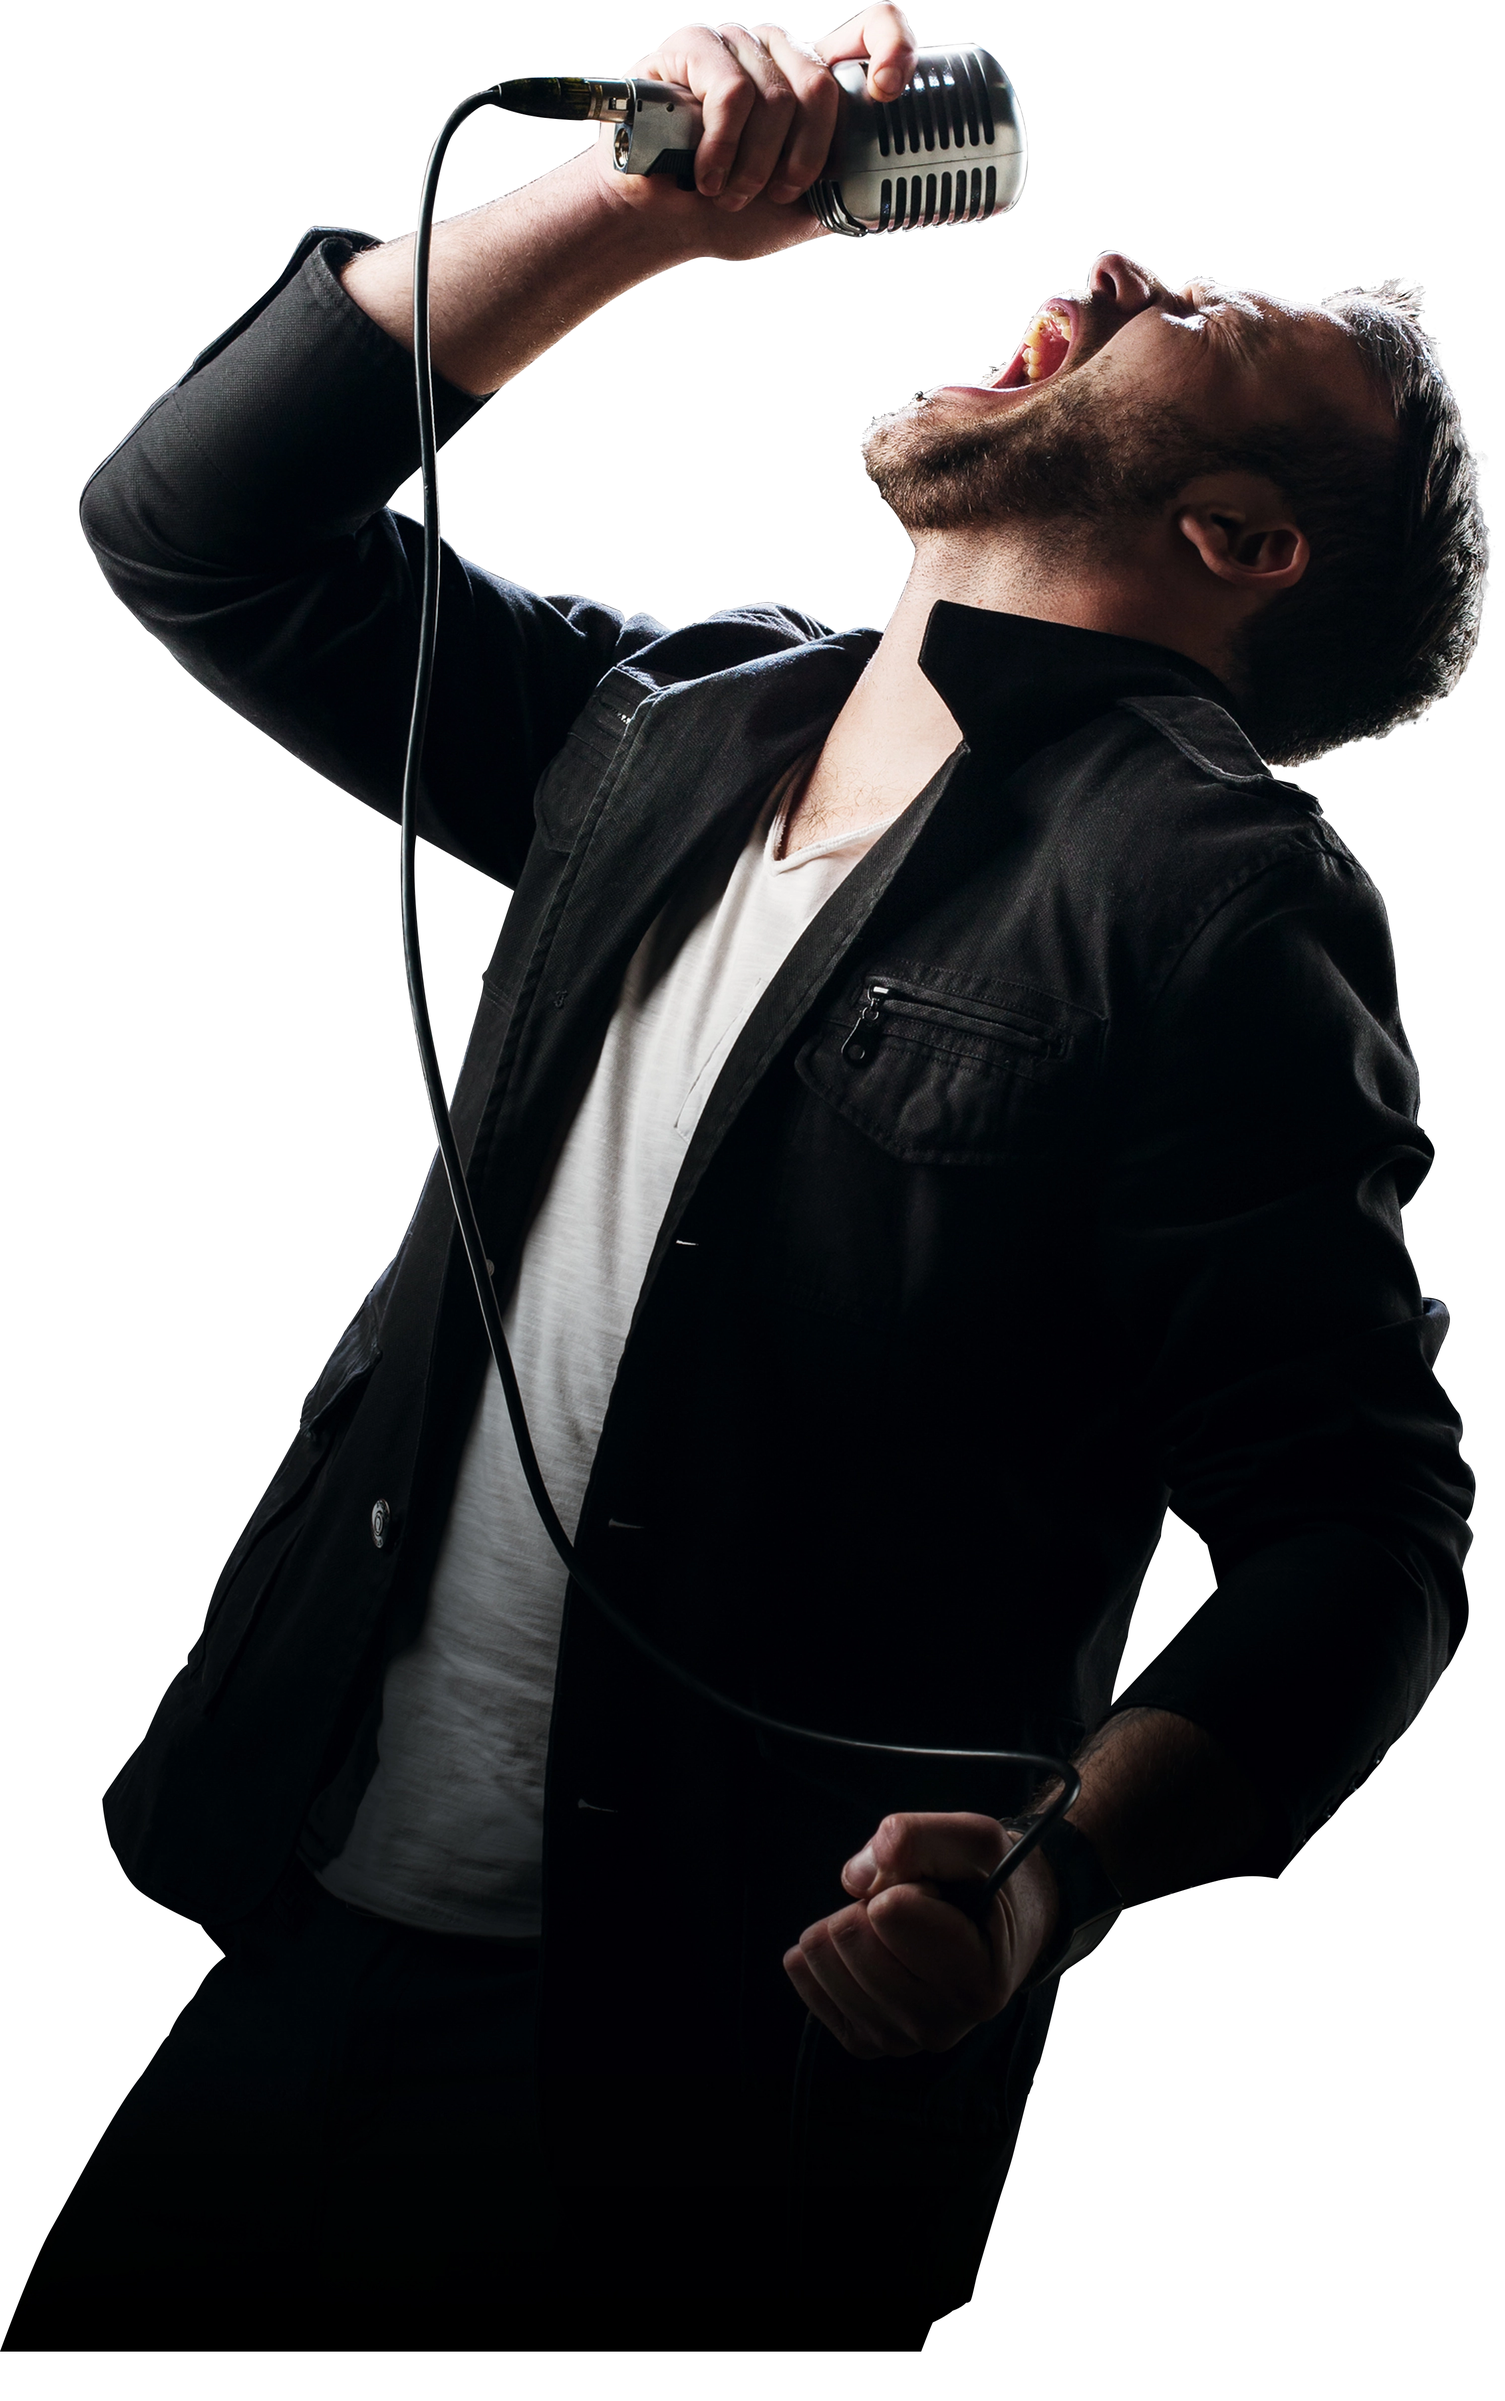
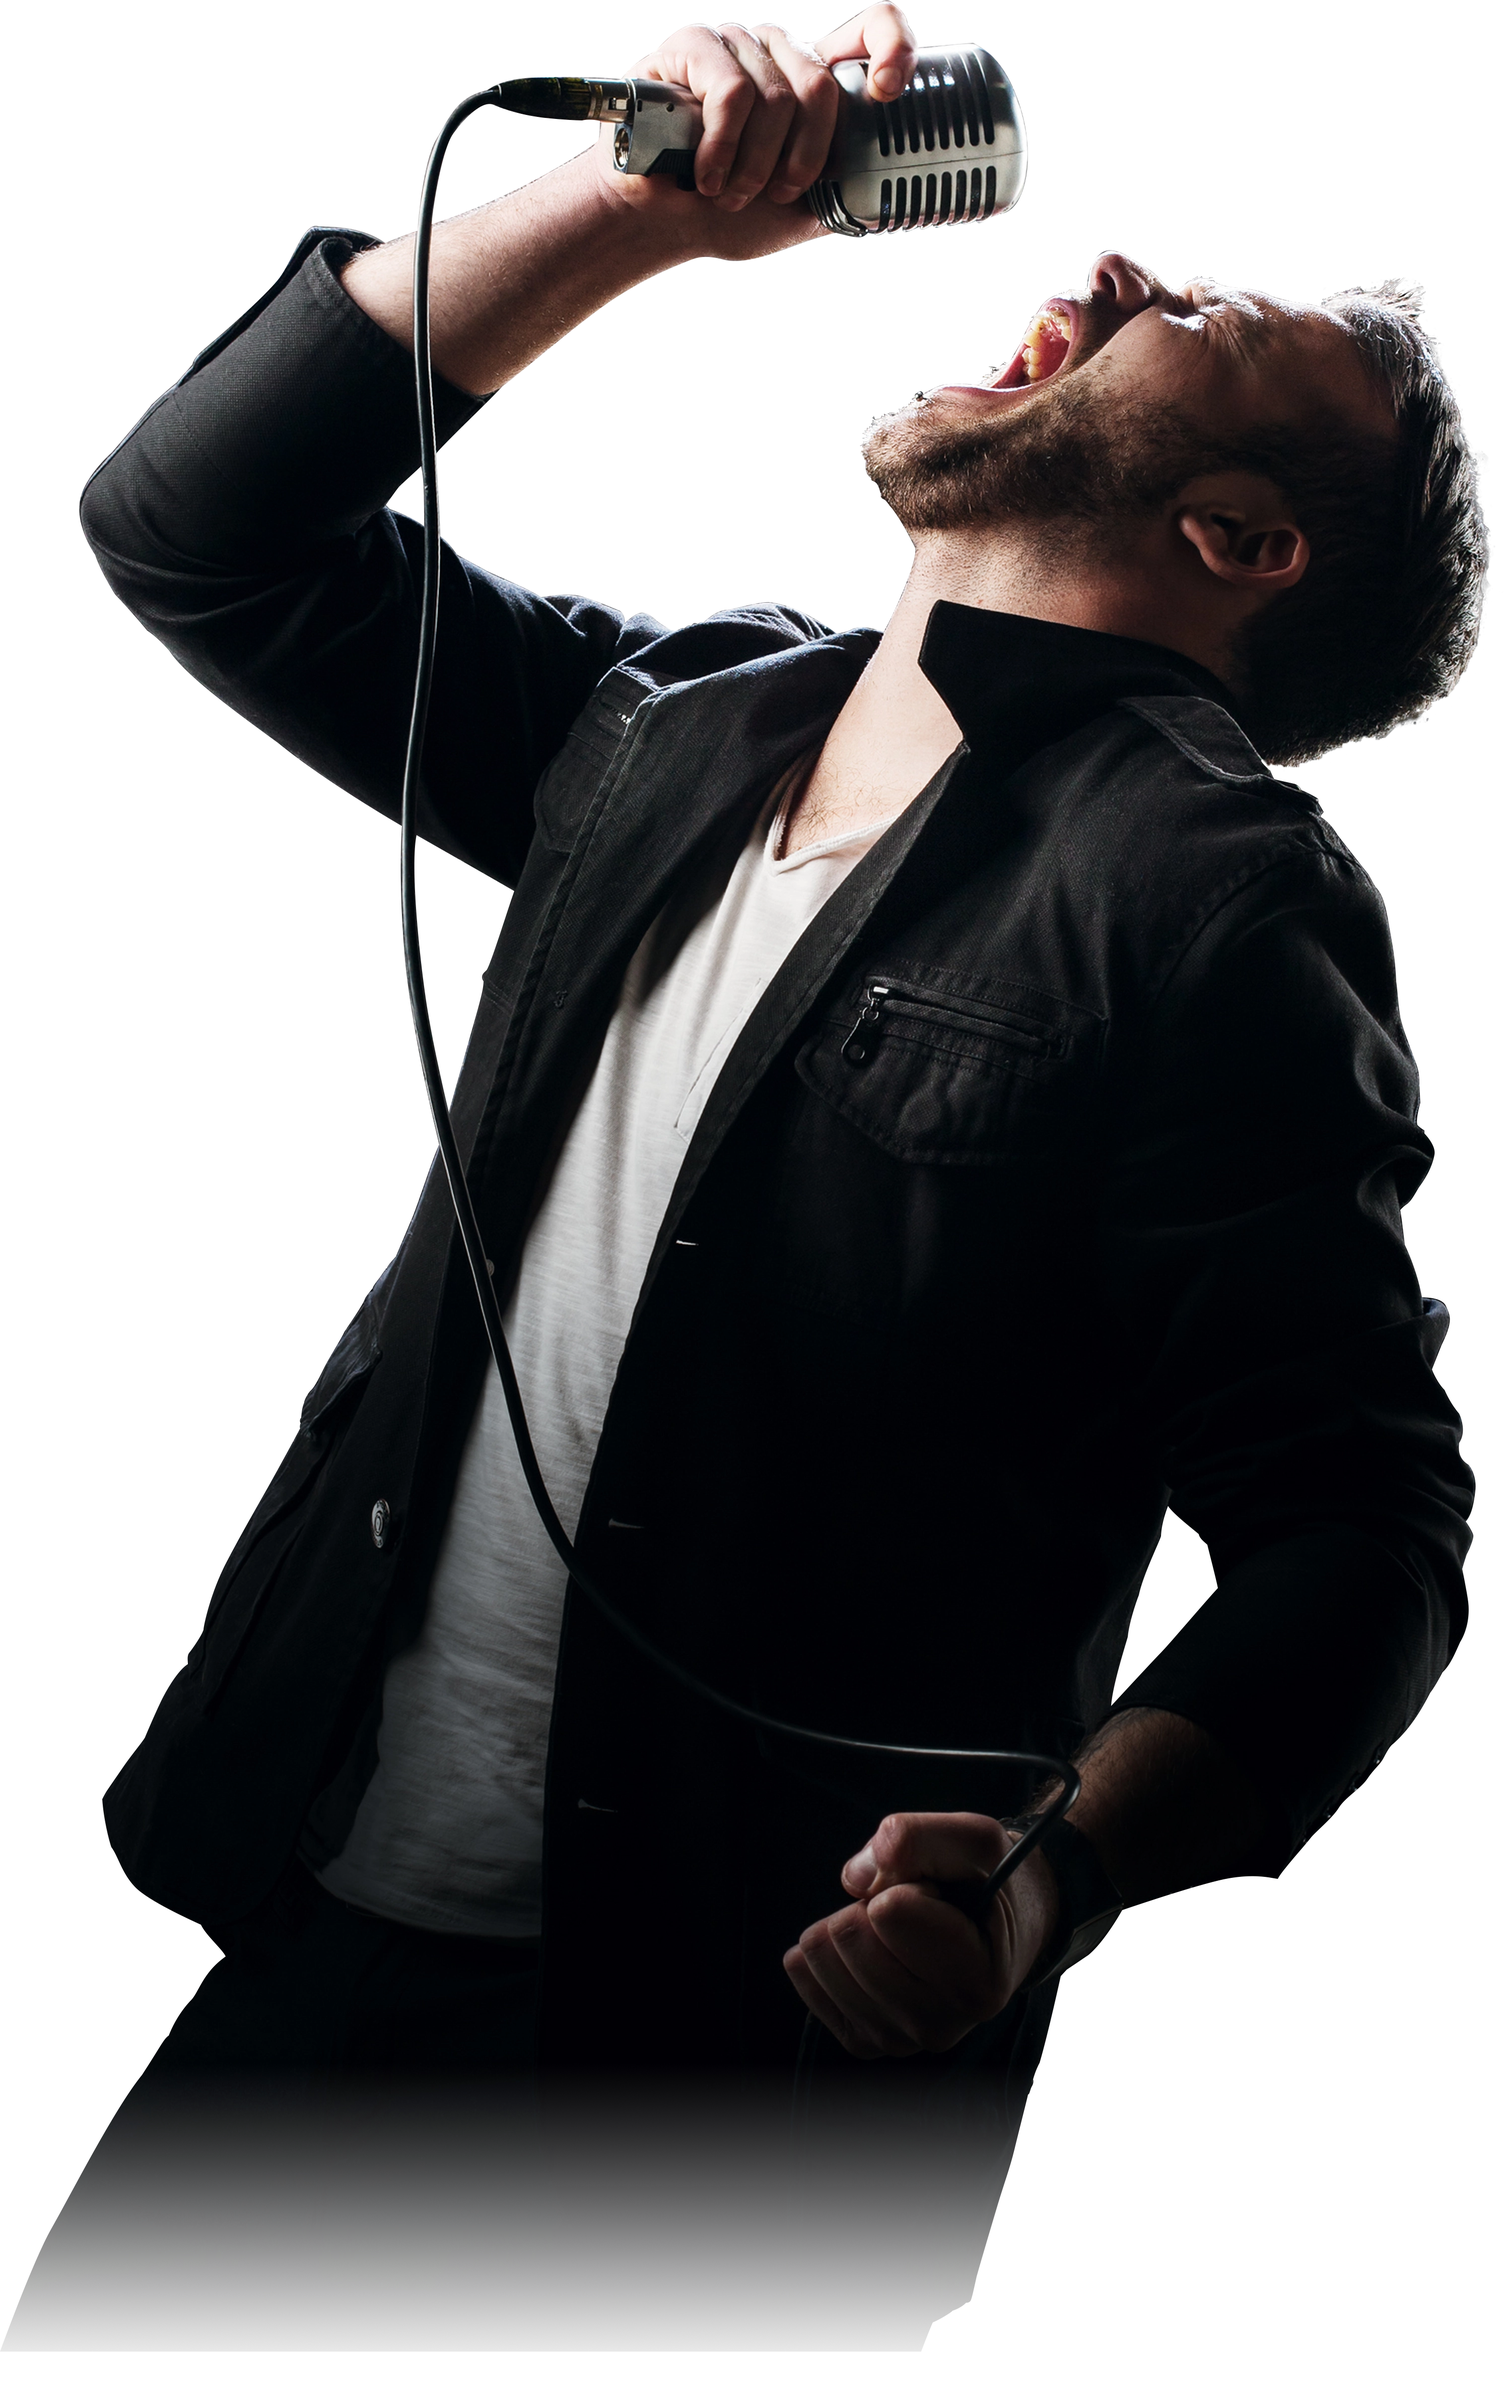
fasfs

Changed region(s): [[0.0, 0.8699, 0.6847, 0.9941]]

diff --git a/index.html b/index.html
@@ -17,27 +17,20 @@
             @import url('https://fonts.googleapis.com/css2?family=Bebas+Neue&family=DM+Sans:ital,wght@0,400;0,500;0,700;1,400;1,500;1,700&family=Pragati+Narrow:wght@400;700&display=swap');
             @import url('https://fonts.googleapis.com/css2?family=Architects+Daughter&display=swap');
         </style>
-        <script src="https://unpkg.com/splitting@1.0.6/dist/splitting.min.js"></script>
+        <!-- <script src="https://unpkg.com/splitting@1.0.6/dist/splitting.min.js"></script> -->
 
-        <script src="https://code.jquery.com/jquery-3.5.0.js"></script>
+        <!-- <script src="https://code.jquery.com/jquery-3.5.0.js"></script> -->
     </head> 
 
     <body>
-        <!-- <main class="main">
-            <h2 class="main-h2 main-h2--front" data-splitting>
-                Nuef // Nuef // Nuef // Nuef
-            </h2>
-            <h2 class="main-h2 main-h2--back" data-splitting>
-                Nuef // Nuef // Nuef // Nuef
-            </h2>
-        </main> -->
-
-
-
-
         <div class="preloader">
             <div class="preloader__center">
                 <img src="assets/media/colorfulDisc.png" alt="" class="preloader__image">
+                <!-- <picture class="preloader__image">
+                    <source srcset="assets/media/colorfulDisc.webp" type="image/webp">
+                    <source srcset="assets/media/colorfulDisc.png" type="image/png">
+                    <img src="assets/media/colorfulDisc.png">
+                </picture> -->
                 <span class="preloader__text">NUEF</span>
             </div>
         </div>
@@ -118,31 +111,44 @@
                 <div class="line header__two-lines">MAKING</div>
                 <div class="line header__two-lines">BRANDS</div>
                 <div class="header__famous-line line z">FAMOUS</div>
-                <img src="assets/media/singer.png" class="singer">
+                <!-- <img src="assets/media/singer.png" class="singer"> -->
+                <picture class="singer">
+                    <source srcset="assets/media/singer.webp" type="image/webp">
+                    <source srcset="assets/media/singer.png" type="image/png">
+                    <img src="assets/media/singer.png">
+                </picture>
+                
                 <div class="circle"></div>
             </div>
-            <div class="spotlights-white">
-                <img src="assets/media/spotlightSmallW.png" class="w spotlight-white spotlight-white-left">
-                <img src="assets/media/spotlightSmallW.png" class="w spotlight-white spotlight-white-center-left">
-                <img src="assets/media/spotlightSmallW.png" class="w spotlight-white spotlight-white-center-right">
-                <img src="assets/media/spotlightSmallW.png" class="w spotlight-white spotlight-white-right">
-            </div>
-
-            <div class="spotlights-pink">
-                <img src="assets/media/spotlightSmallP.png" class="p spotlight-pink">
-                <img src="assets/media/spotlightSmallP.png" class="p spotlight-pink">
-                <img src="assets/media/spotlightSmallP.png" class="p spotlight-pink">
-                <img src="assets/media/spotlightSmallP.png" class="p spotlight-pink">
-            </div>
-
-            <div class="spotlights-white-center">
-                <img src="assets/media/spotlightSmallW.png" class="l spotlight-white-center-bottom spotlight-white-center-bottom-left">
-                <img src="assets/media/spotlightSmallW.png" class="r spotlight-white-center-bottom spotlight-white-center-bottom-right">
+            <div class="spotlights__container">
+                <div class="spotlights-white">
+                    <img src="assets/media/spotlightSmallW.png" class="w spotlight-white spotlight-white-left">
+                    <img src="assets/media/spotlightSmallW.png" class="w spotlight-white spotlight-white-center-left">
+                    <img src="assets/media/spotlightSmallW.png" class="w spotlight-white spotlight-white-center-right">
+                    <img src="assets/media/spotlightSmallW.png" class="w spotlight-white spotlight-white-right">
+                </div>
+    
+                <div class="spotlights-pink">
+                    <img src="assets/media/spotlightSmallP.png" class="p spotlight-pink">
+                    <img src="assets/media/spotlightSmallP.png" class="p spotlight-pink">
+                    <img src="assets/media/spotlightSmallP.png" class="p spotlight-pink">
+                    <img src="assets/media/spotlightSmallP.png" class="p spotlight-pink">
+                </div>
+    
+                <div class="spotlights-white-center">
+                    <img src="assets/media/spotlightSmallW.png" class="l spotlight-white-center-bottom spotlight-white-center-bottom-left">
+                    <img src="assets/media/spotlightSmallW.png" class="r spotlight-white-center-bottom spotlight-white-center-bottom-right">
+                </div>
             </div>
 
             <img src="assets/media/spotlightTopCenter.png" class="spotlight c spotlight-center">
 
-            <img src="assets/media/crowd.png" class="crowd">
+            <!-- <img src="assets/media/crowd.png" class="crowd"> -->
+            <picture class="crowd">
+                <source srcset="assets/media/crowd.webp" type="image/webp">
+                <source srcset="assets/media/crowd.png" type="image/png">
+                <img src="assets/media/crowd.png">
+            </picture>
             <div class="smoke"></div>
         </div>
 
@@ -194,10 +200,20 @@
             </div>
             <div class="musicCircle left">
                 <img class="musicCircle-big" src="assets/media/musicCircle.png">
+                <!-- <picture class="musicCircle-big">
+                    <source srcset="assets/media/musicCircle.webp" type="image/webp">
+                    <source srcset="assets/media/musicCircle.png" type="image/png">
+                    <img src="assets/media/musicCircle.png">
+                </picture> -->
                 <div class="bg"></div>
             </div>
             
             <img src="assets/media/musicCircleBottomRight.png" class="musicCircle-small musicCircle right">
+            <!-- <picture class="musicCircle-small musicCircle right">
+                <source srcset="assets/media/musicCircleBottomRight.webp" type="image/webp">
+                <source srcset="assets/media/musicCircleBottomRight.png" type="image/png">
+                <img src="assets/media/musicCircleBottomRight.png">
+            </picture> -->
             <img src="assets/media/spotlightTopRight.png" class="spotlight">
         </div>
 
@@ -214,13 +230,28 @@
                 <div class="col r section__three__col__r disc-block-three">
                     <div class="circleBlock">
                         <img class="circleBlock__image" src="assets/media/musicRecord.png">
+                        <!-- <picture class="circleBlock__image">
+                            <source srcset="assets/media/musicRecord.webp" type="image/webp">
+                            <source srcset="assets/media/musicRecord.png" type="image/png">
+                            <img src="assets/media/musicRecord.png">
+                        </picture> -->
                         <div class="connect-animation-button center">CONNECT</div>
                     </div>
                 </div>
                 <img src="assets/media/spotlightTopLeft.png" class="spotlight spotlight-block-three">
             </div>
-            <img src="assets/media/leftArm.png" alt="" class="arm left-arm">
-            <img src="assets/media/rightArm.png" alt="" class="arm right-arm">
+            <!-- <img src="assets/media/leftArm.png" alt="" class="arm left-arm"> -->
+            <picture class="arm left-arm">
+                <source srcset="assets/media/leftArm.webp" type="image/webp">
+                <source srcset="assets/media/leftArm.png" type="image/png">
+                <img src="assets/media/leftArm.png">
+            </picture>
+            <!-- <img src="assets/media/rightArm.png" alt="" class="arm right-arm"> -->
+            <picture class="arm right-arm">
+                <source srcset="assets/media/rightArm.webp" type="image/webp">
+                <source srcset="assets/media/rightArm.png" type="image/png">
+                <img src="assets/media/rightArm.png">
+            </picture>
         </div>
 
         <div class="block four">
@@ -236,7 +267,12 @@
                         <div class="phone-line line"><span class="phone-line-line"></span>CHECK MAIL</div>
                     </div>
                     
-                    <img class="phone_image" src="assets/media/phone.png">               
+                    <!-- <img class="phone_image" src="assets/media/phone.png"> -->
+                    <picture class="phone_image">
+                        <source srcset="assets/media/phone.webp" type="image/webp">
+                        <source srcset="assets/media/phone.png" type="image/png">
+                        <img src="assets/media/phone.png">
+                    </picture>
                 </div>
                 <div class="col r">
                     <div class="title">FORGET ABOUT ROUTINE.<br>LEAVE IT TO <span>NUEF</span></div>
@@ -376,6 +412,11 @@
                             <span class="">Nuef</span>
                         </div>
                         <img src="assets/media/discWithText.png" alt="" class="block-contacts__image-disc">
+                        <!-- <picture class="block-contacts__image-disc">
+                            <source srcset="assets/media/discWithText.webp" type="image/webp">
+                            <source srcset="assets/media/discWithText.png" type="image/png">
+                            <img src="assets/media/discWithText.png">
+                        </picture> -->
                     </div>
                     <div class="block-contacts__text">
                         <h1 class="block-contacts__heading">Contact Us</h1>

diff --git a/css/style.css b/css/style.css
@@ -139,7 +139,9 @@ input {
   background: transparent;
 }
 
-img {
+img,
+picture,
+source {
   pointer-events: none;
   -moz-user-select: none;
   -webkit-user-drag: none;
@@ -147,6 +149,11 @@ img {
   -ms-user-select: none;
   /* user-drag: none; */
   user-select: none;
+}
+
+picture img {
+  width: 100%;
+  height: 100%;
 }
 
 body {
@@ -267,13 +274,27 @@ body {
   margin-right: 3rem !important;
 }
 
+.spotlights__container {
+  position: absolute;
+  top: 0;
+  left: 0;
+  height: 100vh;
+  width: 100%;
+
+  opacity: 0;
+}
+
 .block.one .spotlights-white-center {
   position: absolute;
+  left: 50%;
+  transform: translateX(-50%);
   z-index: 10000;
   width: 60rem;
   display: flex;
   align-items: center;
   justify-content: space-between;
+
+  /* opacity: 0; */
 }
 
 .block.one .spotlights-white-center .l {
@@ -282,11 +303,6 @@ body {
 
 .block.one .spotlights-white-center .r {
   transform: rotate(140deg);
-}
-
-.spotlight-white-center-bottom {
-  /* ANIMATION GSAP */
-  opacity: 0;
 }
 
 .spotlights-white {
@@ -300,6 +316,8 @@ body {
   align-items: flex-start;
   justify-content: space-between;
   z-index: 10000;
+
+  /* opacity: 0; */
 }
 
 .spotlight-white {
@@ -307,7 +325,7 @@ body {
   width: 26rem !important;
   height: 120vh !important;
 
-  opacity: 0;
+  /* opacity: 0; */
   /* visibility: hidden; */
 }
 
@@ -344,13 +362,15 @@ body {
   top: 0;
   left: 50%;
   transform: translateX(-50%);
+
+  /* opacity: 0; */
 }
 
 .spotlight-pink {
   /* ANIMATION GSAP */
   /* width: 22.5%; */
+  /* opacity: 0; */
   height: 100vh;
-  opacity: 0;
   width: 20%;
 }
 

diff --git a/js/script.js b/js/script.js
@@ -251,9 +251,10 @@ class AppAnimations {
     .to('.header__two-lines', {duration: 2.5, y: 0, scale: 1}, 0)
     .to('.smoke', {duration: 2.5, opacity: 1}, 0)
     .to('.spotlight-center', {duration: 3.25, opacity: .35}, 0)
-    .to('.spotlight-pink', {duration: 3.25, opacity: 1}, 0)
-    .to('.spotlight-white', {duration: 2.5, opacity: 1}, 0)
-    .to('.spotlight-white-center-bottom', {duration: 2.5, opacity: 1}, 0)
+    .to('.spotlights__container', {duration: 2.5, opacity: 1}, 0)
+    // .to('.spotlights-pink', {duration: 3.25, opacity: 1}, 0)
+    // .to('.spotlights-white', {duration: 2.5, opacity: 1}, 0)
+    // .to('.spotlights-white-center', {duration: 2.5, opacity: 1}, 0)
     .to('.spotlight-white-left', {duration: 2.5, y: 0, x: '-82%', rotate: rotateSides }, 0)
     .to('.spotlight-white-center-left', {duration: 2.5, x: '-45%', rotate: rotateCenter }, 0)
     .to('.spotlight-white-center-right', {duration: 2.5, x: '45%', rotate: -rotateCenter }, 0)
@@ -312,7 +313,7 @@ class AppAnimations {
 
       if (isIOSDevice()) {
         // discRight = '-50%'
-          discRight = '50%'
+          discRight = '65%'
       }
     }
 
@@ -419,6 +420,6 @@ class AppAnimations {
 
 new AppAnimations();
 
-Splitting({
-	whitespace: true
-})
+// Splitting({
+// 	whitespace: true
+// })
